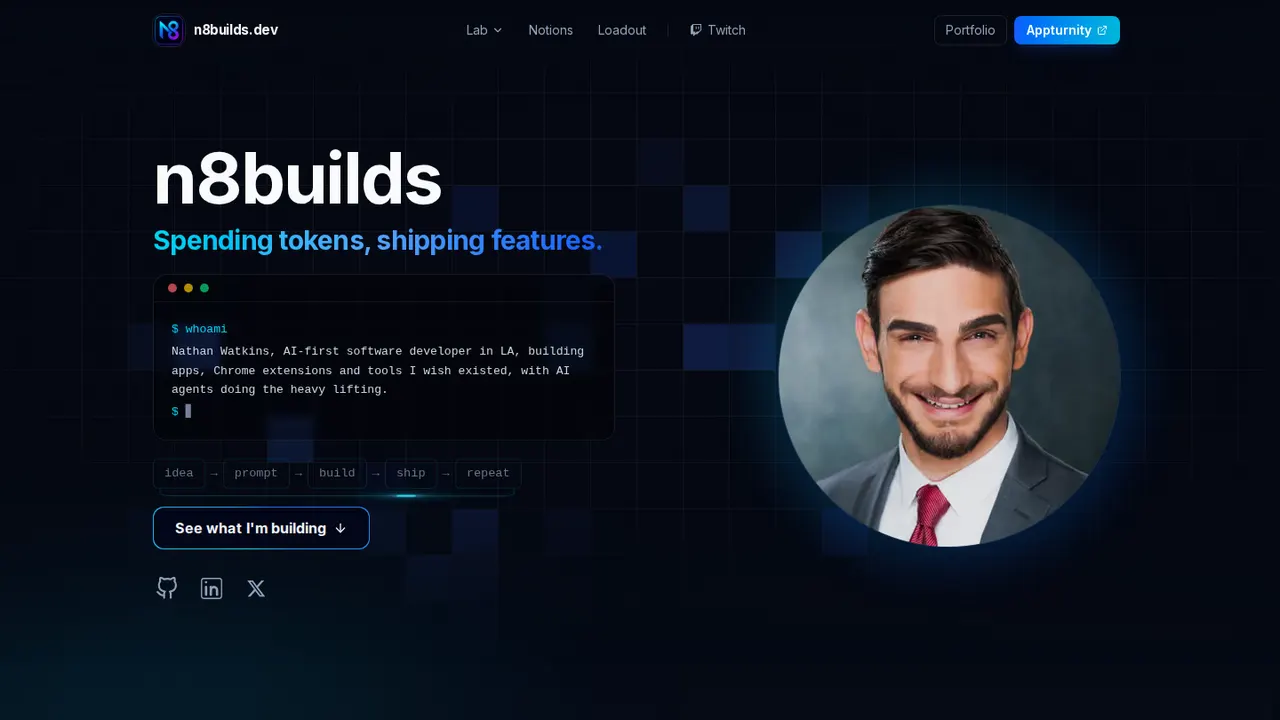
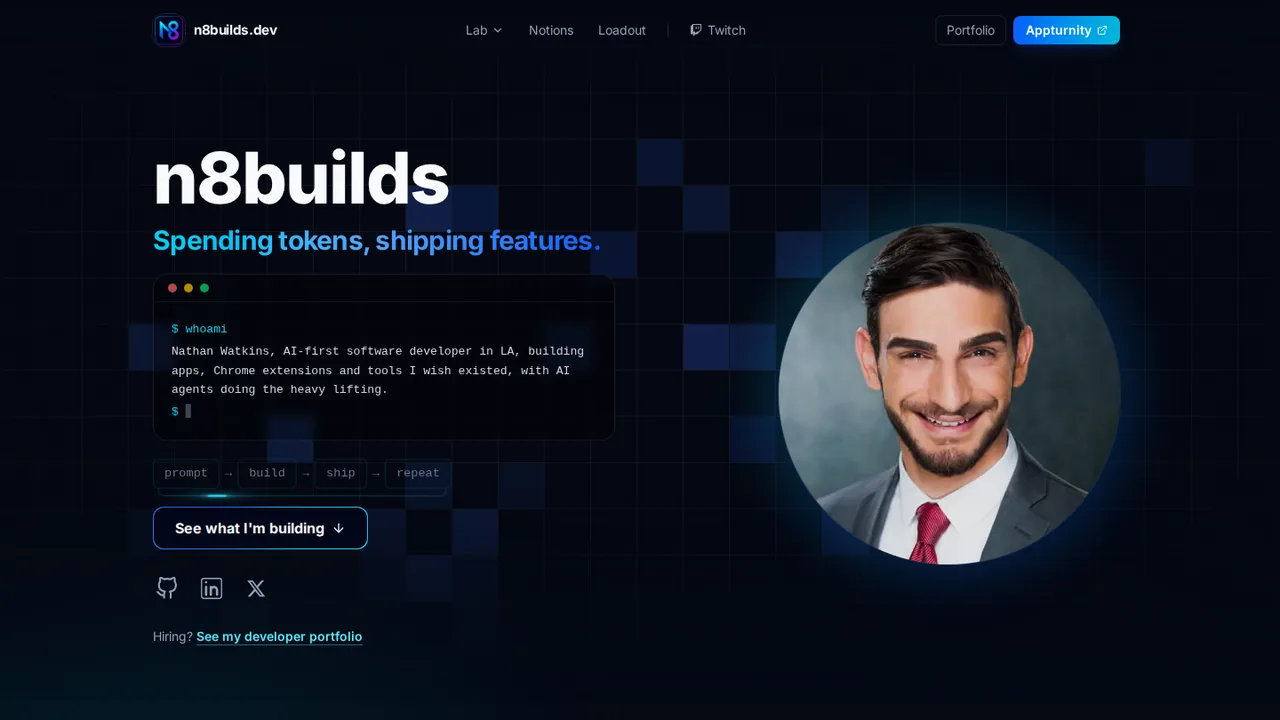
feat(home): hero chain is now prompt -> build -> ship -> repeat
The first chip keeps the old idea chip's box, single comet and wire
landing, labelled prompt. The loop shortens from 11s to 9.2s so each
sweep, hand-off and the wire pulse keep their old speed with four chips.
Recaptures the case study's homepage screenshot.

diff --git a/app/globals.css b/app/globals.css
@@ -270,9 +270,9 @@
   }
 }
 
-/* The hero's idea -> repeat chain (components/sections/Hero.tsx): an
+/* The hero's prompt -> repeat chain (components/sections/Hero.tsx): an
    electrified circuit. A comet traces each chip's outline left -> right, then
-   runs the loop-back line from repeat under the whole chain back into idea,
+   runs the loop-back line from repeat under the whole chain back into prompt,
    and the loop starts again. Here, not in a <style> in the component, so it
    ships once in the stylesheet instead of in the page's JavaScript too. */
 @property --n8ang {
@@ -281,50 +281,52 @@
   inherits: false;
 }
 
-/* Shared 11s loop. Chips fire on a 1.8s stagger (left -> right); each comet
-   sweeps its perimeter, then the loop-back line carries a fast pulse from
-   repeat back under the chain into idea (~3x quicker than the chip sweeps),
-   landing right as idea relights, and it repeats. */
+/* Shared 9.2s loop for the four chips: they fire on a 1.8s stagger
+   (left -> right, the last at 5.4s); each comet sweeps its perimeter, then the
+   loop-back line carries a fast pulse from repeat back under the chain into
+   prompt (~3x quicker than the chip sweeps), landing right as prompt relights,
+   and it repeats. The percentages below are of 9.2s: a comet fades in over
+   0.33s, sweeps for 1.21s and is gone by 1.49s; the wire pulse takes 2.42s. */
 @keyframes n8cometSweep {
-  0%          { --n8ang: 0deg;   opacity: 0; }
-  3%          { opacity: 1; }
-  11%         { --n8ang: 225deg; opacity: 1; }
-  13.5%, 100% { --n8ang: 225deg; opacity: 0; }
+  0%           { --n8ang: 0deg;   opacity: 0; }
+  3.6%         { opacity: 1; }
+  13.15%       { --n8ang: 225deg; opacity: 1; }
+  16.15%, 100% { --n8ang: 225deg; opacity: 0; }
 }
 /* split trace (middle chips): two lights start at 9 o'clock and sweep
    a half each (one over the top, one under the bottom), meeting at the
    3 o'clock arrow. --n8ang 0 -> 180; the +/- in the conic from-angle sends
    ::before clockwise (top) and ::after counter-clockwise (bottom). */
 @keyframes n8splitSweep {
-  0%          { --n8ang: 0deg;   opacity: 0; }
-  3%          { opacity: 1; }
-  11%         { --n8ang: 180deg; opacity: 1; }
-  13.5%, 100% { --n8ang: 180deg; opacity: 0; }
+  0%           { --n8ang: 0deg;   opacity: 0; }
+  3.6%         { opacity: 1; }
+  13.15%       { --n8ang: 180deg; opacity: 1; }
+  16.15%, 100% { --n8ang: 180deg; opacity: 0; }
 }
 /* fade in (dim -> lit), hold while the comet traces, fade out, then a
    gap before the next chip so the hand-off reads as a clear flow. */
 @keyframes n8chipGlow {
   0%        { border-color: rgba(34,211,238,0.12); background-color: rgba(34,211,238,0); color: rgb(100,116,139); text-shadow: none; }
-  3%        { border-color: rgba(34,211,238,0.55); background-color: rgba(34,211,238,0.06); color: rgb(165,243,252); text-shadow: 0 0 8px rgba(34,211,238,0.6); }
-  11%       { border-color: rgba(34,211,238,0.55); background-color: rgba(34,211,238,0.06); color: rgb(165,243,252); text-shadow: 0 0 8px rgba(34,211,238,0.6); }
-  14%, 100% { border-color: rgba(34,211,238,0.12); background-color: rgba(34,211,238,0); color: rgb(100,116,139); text-shadow: none; }
+  3.6%      { border-color: rgba(34,211,238,0.55); background-color: rgba(34,211,238,0.06); color: rgb(165,243,252); text-shadow: 0 0 8px rgba(34,211,238,0.6); }
+  13.15%    { border-color: rgba(34,211,238,0.55); background-color: rgba(34,211,238,0.06); color: rgb(165,243,252); text-shadow: 0 0 8px rgba(34,211,238,0.6); }
+  16.75%, 100% { border-color: rgba(34,211,238,0.12); background-color: rgba(34,211,238,0); color: rgb(100,116,139); text-shadow: none; }
 }
 @keyframes n8arrowGlow {
   0%        { color: rgb(100,116,139); text-shadow: none; }
-  3%, 8%    { color: rgb(165,243,252); text-shadow: 0 0 4px rgba(34,211,238,1), 0 0 9px rgba(34,211,238,1), 0 0 16px rgba(34,211,238,0.7); }
-  13%, 100% { color: rgb(100,116,139); text-shadow: none; }
+  3.6%, 9.55% { color: rgb(165,243,252); text-shadow: 0 0 4px rgba(34,211,238,1), 0 0 9px rgba(34,211,238,1), 0 0 16px rgba(34,211,238,0.7); }
+  15.55%, 100% { color: rgb(100,116,139); text-shadow: none; }
 }
 /* loop-back connector: dim wire + ONE blue pulse (#22d3ee, same as the
-   chips). Tight hand-off both ends: starts ~78%, right as repeat's comet
-   lands on the 4:30 corner (no lead-in gap), travels the WHOLE wire, and
-   reaches the idea corner ~99%, right before the loop restarts and idea
-   lights (no trailing gap). --n8wire is the wire's on-screen pixel
-   length, measured by useWireLength (non-scaling-stroke makes the dash
+   chips). Tight hand-off both ends: starts ~72.5% (6.67s), right as repeat's
+   comet lands on the 4:30 corner (no lead-in gap), travels the WHOLE wire, and
+   reaches the prompt corner ~98.8% (9.09s), right before the loop restarts and
+   prompt lights (no trailing gap). --n8wire is the wire's on-screen pixel
+   length, measured by HeroChainMeter (non-scaling-stroke makes the dash
    use px, ignoring pathLength); the class values are only the fallback. */
 @keyframes n8loopComet {
-  0%, 75%  { stroke-dashoffset: 0;    opacity: 0; }
-  77%      { stroke-dashoffset: 0;    opacity: 1; }
-  99%      { stroke-dashoffset: calc(var(--n8wire) * -1); opacity: 1; }
+  0%, 70.1% { stroke-dashoffset: 0;    opacity: 0; }
+  72.5%     { stroke-dashoffset: 0;    opacity: 1; }
+  98.8%     { stroke-dashoffset: calc(var(--n8wire) * -1); opacity: 1; }
   100%     { stroke-dashoffset: calc(var(--n8wire) * -1 - 20px); opacity: 0; }
 }
 
@@ -333,7 +335,7 @@
   isolation: isolate;
   border-color: rgba(34,211,238,0.12);
   color: rgb(100,116,139);
-  animation: n8chipGlow 11s linear infinite;
+  animation: n8chipGlow 9.2s linear infinite;
   animation-delay: var(--n8delay, 0s);
 }
 .n8-cnode:not(.n8-split)::before {
@@ -343,8 +345,8 @@
   border-radius: inherit;
   padding: 1.5px;
   opacity: 0;
-  /* idea/ship (single comet): a partial 225deg clockwise arc (up & over).
-     idea 7:30 -> 3:00 (--n8start 135deg); ship 9:00 -> 4:30 (--n8start 180deg).
+  /* prompt/repeat (single comet): a partial 225deg clockwise arc (up & over).
+     prompt 7:30 -> 3:00 (--n8start 135deg); repeat 9:00 -> 4:15 (--n8start 172deg).
      bright head sits 90deg ahead of the from-angle (the 25% cone stop). */
   background: conic-gradient(
     from calc(var(--n8ang) + var(--n8start, 0deg)),
@@ -359,7 +361,7 @@
           mask: linear-gradient(#fff 0 0) content-box, linear-gradient(#fff 0 0);
           mask-composite: exclude;
   filter: drop-shadow(0 0 5px rgba(34,211,238,0.7));
-  animation: n8cometSweep 11s linear infinite;
+  animation: n8cometSweep 9.2s linear infinite;
   animation-delay: var(--n8delay, 0s);
   z-index: 1;
   pointer-events: none;
@@ -377,7 +379,7 @@
           mask: linear-gradient(#fff 0 0) content-box, linear-gradient(#fff 0 0);
           mask-composite: exclude;
   filter: drop-shadow(0 0 5px rgba(34,211,238,0.7));
-  animation: n8splitSweep 11s linear infinite;
+  animation: n8splitSweep 9.2s linear infinite;
   animation-delay: var(--n8delay, 0s);
   z-index: 1;
   pointer-events: none;
@@ -397,7 +399,7 @@
 .n8-carrow {
   color: rgb(100,116,139);
   font-size: 0.85rem;
-  animation: n8arrowGlow 11s linear infinite;
+  animation: n8arrowGlow 9.2s linear infinite;
 }
 /* below 360px (iPhone SE 1st gen) the chain shrinks to fit the screen */
 @media (max-width: 359px) {
@@ -417,9 +419,9 @@
 .n8-loop-comet {
   stroke: #22d3ee;
   filter: drop-shadow(0 0 2px #67e8f9) drop-shadow(0 0 6px #22d3ee) drop-shadow(0 0 9px rgba(34,211,238,0.7));
-  /* -10s phase: page loads mid-loop with the pulse already on the bottom
-     wire (more negative -> closer to idea; less -> closer to ship). */
-  animation: n8loopComet 11s linear -10s infinite;
+  /* -8.2s phase: page loads mid-loop with the pulse already on the bottom
+     wire (more negative -> closer to prompt; less -> closer to repeat). */
+  animation: n8loopComet 9.2s linear -8.2s infinite;
 }
 
 @media (prefers-reduced-motion: reduce) {

diff --git a/components/sections/Hero.tsx b/components/sections/Hero.tsx
@@ -52,44 +52,46 @@ const Hero = () => {
 
             {/* Build philosophy - electrified circuit: a comet traces each chip's
                 outline left -> right, then runs the loop-back line from repeat under the
-                whole chain back into idea, and the loop starts again. */}
+                whole chain back into prompt, and the loop starts again. */}
             <FadeIn
               effect="in"
               delay={0.45}
-              className="relative w-fit font-mono text-[0.6rem] min-[360px]:text-[0.72rem] sm:text-[0.85rem] select-none [--n8wire:340px] sm:[--n8wire:410px]"
+              className="relative w-fit font-mono text-[0.6rem] min-[360px]:text-[0.72rem] sm:text-[0.85rem] select-none [--n8wire:280px] sm:[--n8wire:335px]"
             >
               {/* The chain's styles live in app/globals.css (.n8-cnode and friends). */}
               <HeroChainMeter />
               <div className="flex items-center gap-1 min-[360px]:gap-1.5">
-                {['idea', 'prompt', 'build', 'ship', 'repeat'].map((w, i, arr) => (
+                {['prompt', 'build', 'ship', 'repeat'].map((w, i, arr) => (
                   <React.Fragment key={w}>
                     <span
                       className={`n8-cnode rounded-md border px-1.5 min-[360px]:px-2 py-1 sm:px-3 sm:py-1.5 lowercase tracking-wide${
                         i > 0 && i < arr.length - 1 ? ' n8-split' : ''
                       }`}
                       style={{
-                        // 11s loop, 1.8s chip spacing, phase-shifted -10s so the page loads
-                        // pulse-mid-wire; idea fires ~0.45s early so it lights as the wire lands.
-                        ['--n8delay' as string]: `${(i === 0 ? -0.45 : i * 1.8) - 10}s`,
-                        // idea starts bottom-left (~7:30), repeat at 9 o'clock; the split
-                        // chips ignore --n8start (they sweep from 270deg +/- the angle).
+                        // 9.2s loop, 1.8s chip spacing, phase-shifted -8.2s so the page loads
+                        // pulse-mid-wire; the first chip (prompt) fires ~0.45s early so it
+                        // lights as the wire lands.
+                        ['--n8delay' as string]: `${(i === 0 ? -0.45 : i * 1.8) - 8.2}s`,
+                        // prompt starts bottom-left (~7:30), where the wire lands, and repeat
+                        // at 9 o'clock; the split chips ignore --n8start (they sweep from
+                        // 270deg +/- the angle).
                         ['--n8start' as string]:
                           i === 0 ? '135deg' : i === arr.length - 1 ? '172deg' : '0deg',
                       }}
                     >
                       {w}
                     </span>
-                    {/* middle chips (prompt/build/ship) carry a second light via
+                    {/* middle chips (build/ship) carry a second light via
                         ::after, so the two halves meet at the 3 o'clock arrow */}
                     {i < arr.length - 1 && (
                       // arrow lights at the hand-off as the comet leaves chip i
-                      <span className="n8-carrow" style={{ animationDelay: `${(i === 0 ? 0.43 : i * 1.8 + 0.88) - 10}s` }}>→</span>
+                      <span className="n8-carrow" style={{ animationDelay: `${(i === 0 ? 0.43 : i * 1.8 + 0.88) - 8.2}s` }}>→</span>
                     )}
                   </React.Fragment>
                 ))}
               </div>
               {/* loop-back circuit line: repeat (right) -> down -> under the chain ->
-                  up into idea (left). preserveAspectRatio=none stretches it to the
+                  up into prompt (left). preserveAspectRatio=none stretches it to the
                   chain width; non-scaling-stroke keeps the line crisp. */}
               <svg className="n8-loop" viewBox="0 0 100 16" preserveAspectRatio="none" aria-hidden="true">
                 <path

diff --git a/tests/e2e/hero.spec.ts b/tests/e2e/hero.spec.ts
@@ -8,13 +8,16 @@ import { test, expect } from '@playwright/test'
 
 test.use({ viewport: { width: 320, height: 568 }, hasTouch: true, contextOptions: { reducedMotion: 'reduce' } })
 
-test('the heading, subheader and idea -> repeat chips all fit on a 320px screen', async ({ page }) => {
+test('the heading, subheader and prompt -> repeat chips all fit on a 320px screen', async ({ page }) => {
   await page.goto('/')
   const hero = page.locator('#home')
+  // The chain is prompt -> build -> ship -> repeat, in that order ("idea" was dropped).
+  await expect(hero.locator('.n8-cnode')).toHaveText(['prompt', 'build', 'ship', 'repeat'])
+  await expect(hero.getByText('idea', { exact: true })).toHaveCount(0)
   const targets = [
     hero.getByRole('heading', { level: 1, name: 'n8builds' }),
     hero.getByText('Spending tokens, shipping features.'),
-    hero.getByText('idea', { exact: true }),
+    hero.getByText('prompt', { exact: true }),
     hero.getByText('repeat', { exact: true }),
   ]
   for (const target of targets) {

diff --git a/docs/DECISIONS.md b/docs/DECISIONS.md
@@ -35,8 +35,9 @@ When the owner decides something new, add it here (with the date) in the same ch
   Refresh the test counts in its `solution` (and the template section's summary in `components/sections/UseAsTemplate.tsx`) when the suites grow.
   Its screenshots in `public/builds/n8builds/` are real: the live homepage hero, the CI Lighthouse report for `/` (summary only), the GitHub Actions run of PR #10, and its own generated share card; `tests/e2e/n8builds-build.spec.ts` and `tests/e2e/api/n8builds-build.spec.ts` guard them.
 - **Private repos get no GitHub link:** a build links its repo only while the repo is public (the build log also links commits and releases only then). Solara went public on 2026-10-24 and has its link; its live site moved to https://solara-uv.web.app (the old uv-activity-planner.web.app redirects there).
-- **Hero chips at 320px:** below 360px the idea -> repeat chain shrinks so it fits an iPhone SE (1st gen); `tests/e2e/hero.spec.ts` guards it.
-  The loop-back light measures its wire at runtime (`useWireLength` in `Hero.tsx`), so chip size changes need no manual re-measuring.
+- **The hero chain is prompt -> build -> ship -> repeat** (2026-10-26): "idea" was dropped. The first chip keeps idea's old box, single comet and wire landing; only its label changed.
+- **Hero chips at 320px:** below 360px the prompt -> repeat chain shrinks so it fits an iPhone SE (1st gen); `tests/e2e/hero.spec.ts` guards it.
+  The loop-back light measures its wire at runtime (`components/sections/HeroChainMeter.tsx`), so chip size changes need no manual re-measuring.
 - **Appturnity has no build page:** `/builds/appturnity` redirects to appturnity.com, and the site never links Appturnity's GitHub repo.
 - **Hidden builds:** `hiddenBuilds` in `data/builds.tsx` keeps builds that are paused but not dead, with no page, card, sitemap entry or nav link; their old URLs redirect temporarily (307) so they can come back at the same address.
   **The Chrome Extension Launch Kit is on hold** (2026-10-23): the owner is deciding what to do with it (its repo is private, and the homepage banner's claim that the extensions are built on it wasn't accurate). Banner removed; `/builds/chrome-extension-kit` redirects to `/#extensions`.

diff --git a/docs/NEXT_STEPS.md b/docs/NEXT_STEPS.md
@@ -123,6 +123,7 @@ To review it later, paste [prompts/review-2026-10-24-changes.md](prompts/review-
 
 - Shallow review of the 2026-10-25 work (one subagent): no high-severity problems; six medium and low findings, all fixed: the contact card's Appturnity line and the case study's Lighthouse claim (#43), the portfolio's "Building in public" card now links builds to their n8builds.dev pages and drops Scribe (dev-portfolio#5), and the Lab rows' Details, Live Site and GitHub controls name their build for screen readers (#44).
   Two findings are the owner's: the portfolio's Lifeline Clinical Lab link fails TLS (the client's certificate), and Portfolio Rank's "Add your portfolio" button goes to the leaderboard by decision.
+- Hero chain: now prompt -> build -> ship -> repeat ("idea" dropped, by the owner's request). The first chip keeps idea's box, comet and wire landing; the loop is 9.2s instead of 11s so every sweep, hand-off and the wire pulse keep their old speed. The case study's homepage screenshot was recaptured.
 - Homepage speed (#44): the homepage is server components with client islands only for its interactive parts; animations are CSS, so no page loads motion up front (it loads only with the form's sending and success screens and the live player); zod and those screens load when the form scrolls into view, with plain fallbacks if a deploy removed their chunks; the hero's endless animations pause off screen; the marquee server-renders one copy of its items; the three newest posts render on the server (`/api/notions/recent` is gone).
   Mobile Lighthouse on `/` (local, CI env): score 0.85 to 0.87-0.90, TBT 255ms to 80-200ms, first-load JavaScript 405 KB to 270 KB (transferred), HTML 469 KB to 348 KB before compression, LCP ~3.6s to ~3.55s, CLS 0.
   Desktop stays 1.00 on all five pages; the mobile budgets in `scripts/lighthouse.mjs` rose to 0.8 and 4.2s.

diff --git a/docs/N8BUILDS_PLAN.md b/docs/N8BUILDS_PLAN.md
@@ -118,7 +118,7 @@ have projects/extensions/tools/experiments all derive from it.
 
 `components/HomePage.tsx`, each section in a full-width band and a `SectionErrorBoundary`, most lazy-loaded via `next/dynamic`:
 
-1. **Hero** (`Hero.tsx`): "n8builds", "Spending tokens, shipping features.", the `whoami` terminal, the idea -> prompt -> build -> ship -> repeat circuit, a "See what I'm building" button, socials, and a background grid that warms up and wanders.
+1. **Hero** (`Hero.tsx`): "n8builds", "Spending tokens, shipping features.", the `whoami` terminal, the prompt -> build -> ship -> repeat circuit, a "See what I'm building" button, socials, and a background grid that warms up and wanders.
 2. **What I'm working on** (`NowBuilding.tsx`, data in `data/now.tsx`): Appturnity only, linking appturnity.com.
 3. **The Lab**: Featured web apps (`FeaturedProjects.tsx`: Portfolio Rank, Solara), Chrome extensions (`ExtensionsShowcase.tsx`) and Tools (`ShelfSection shelf="tool"`).
 4. **N8's Notions strip** (`NotionsStrip.tsx`).
